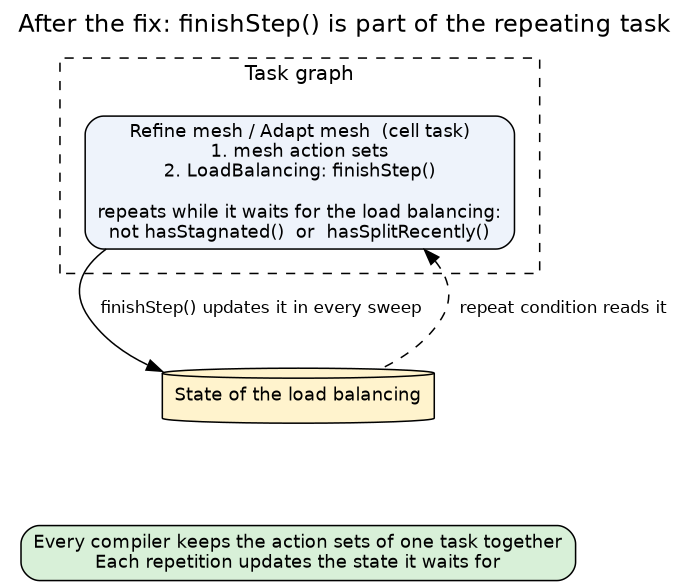
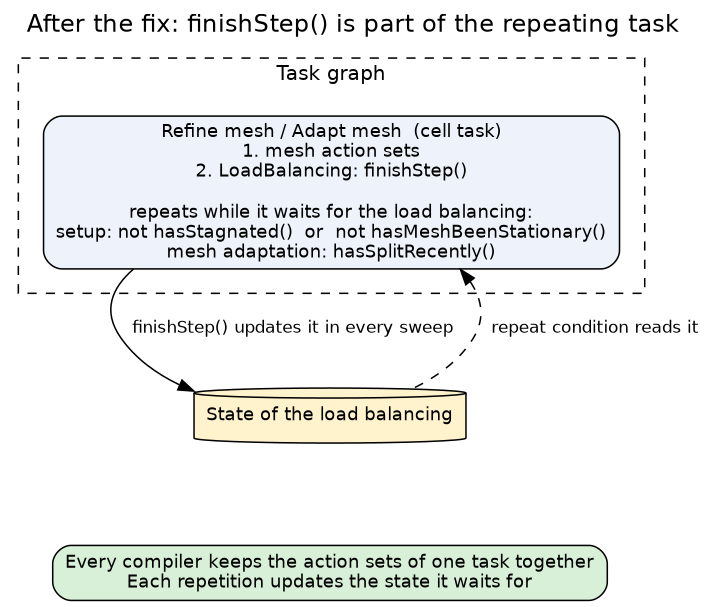
Setup: terminate the mesh construction only once the mesh has been stationary
The setup pauses its refinement while the load balancing has split recently, and
a paused refinement leaves the grid stationary. Each sweep decides at its start
whether it refines, and the repetition is checked after finishStep(). When
hasSplitRecently() ceased to hold, the grid hence was stationary because the
last sweep had not been allowed to refine, and the setup terminated. With
SpreadOut, which splits as soon as every thread can get a tree, the mesh stopped
at nine cells.

- New AbstractLoadBalancing::hasMeshBeenStationary(), which holds one state
  update after hasSplitRecently() has ceased to hold. Cascade forwards it. The
  refinement tasks of the setups over a regular grid and of LoadCheckpoint
  repeat until it holds.
- Reduce NumberOfMeshSweepsAfterSplitToMakeMeshConsistentAgain from 3 to 2, and
  document which sweeps it counts. This affects all users of hasSplitRecently().
- Update the labels of the graphs which document the repeating tasks.

Tested with all task graph compilers and both SpreadOut strategies: the point
source (regular grid) and the entropy wave (rk4fd4), without MPI.
LoadCheckpoint and Cascade have not been run.

diff --git a/src/toolbox/loadbalancing/AbstractLoadBalancing.h b/src/toolbox/loadbalancing/AbstractLoadBalancing.h
@@ -36,15 +36,21 @@ public:
   /**
    * Number of mesh sweeps a split needs until the mesh is consistent again
    *
-   * We need three sweeps to perform a proper split:
+   * A split needs three sweeps after the one at whose end the strategy has
+   * triggered it:
    *
-   * 1. Trigger the split,
-   * 2. split the mesh actually,
-   * 3. update all the stats.
+   * 1. The new trees are created. The statistics register the split at the end
+   *    of this sweep, i.e. they set the number of state updates without any
+   *    split to zero.
+   * 2. The new trees receive their cells.
+   * 3. The old tree hands over these cells, so the cell counts are consistent.
+   *
+   * The constant counts the state updates after the one which has registered
+   * the split, i.e. it stands for the sweeps two and three.
    *
    * @see hasSplitRecently()
    */
-  static constexpr int NumberOfMeshSweepsAfterSplitToMakeMeshConsistentAgain = 3;
+  static constexpr int NumberOfMeshSweepsAfterSplitToMakeMeshConsistentAgain = 2;
 
   /**
    * Constructor
@@ -124,6 +130,29 @@ public:
    * before the split has been carried out.
    */
   virtual bool hasSplitRecently() const;
+
+
+  /**
+   * Has the mesh been stationary with respect to splits
+   *
+   * Holds one state update after hasSplitRecently() has ceased to hold, and as
+   * long as this rank has not triggered a new split. It does not tell whether
+   * the grid itself is stationary (@ref peano4::grid::isGridStationary()).
+   *
+   * ## Why a mesh construction cannot use hasSplitRecently() to terminate
+   *
+   * A mesh construction pauses its refinement while hasSplitRecently() holds,
+   * as the new trees have to catch up first. A paused refinement leaves the
+   * grid stationary. Each sweep decides at its start whether it refines, while
+   * the repetition is checked after finishStep(), i.e. at its end. When
+   * hasSplitRecently() ceases to hold, the grid hence is stationary because
+   * the last sweep has not been allowed to refine. If the construction
+   * terminates now, it never resumes the refinement. With the strategy
+   * SpreadOut, which splits as soon as every thread can get a tree, the mesh
+   * stopped at nine cells. A construction therefore has to run until
+   * hasMeshBeenStationary() holds, which grants it one sweep with refinement.
+   */
+  virtual bool hasMeshBeenStationary() const;
 
 
   /**

diff --git a/src/exahype2/api/fv/SetupSimulationOverRegularGrid.py b/src/exahype2/api/fv/SetupSimulationOverRegularGrid.py
@@ -37,7 +37,10 @@ class SetupSimulationOverRegularGrid(Solver.GridConstruction):
     ## Why the refinement task informs the load balancing itself
 
     The task Refine mesh repeats until the load balancing has stagnated and
-    has not split recently. Only finishStep() updates both, i.e. the action
+    reports that the mesh has been stationary
+    (@ref toolbox::loadbalancing::AbstractLoadBalancing::hasMeshBeenStationary()
+    explains why it must not terminate as soon as the load balancing has not
+    split recently anymore). Only finishStep() updates both, i.e. the action
     set toolbox.loadbalancing.api.actionsets.LoadBalancing which calls it has
     to be part of this very task. It used to sit in a task of its own which
     depended on the refinement. The setup then terminated only if the task
@@ -137,7 +140,7 @@ class SetupSimulationOverRegularGrid(Solver.GridConstruction):
                                                                     "not peano4::grid::isGridStationary( peano4::parallel::SpacetreeSet::getInstance().getGridStatistics() )"
                                                                     " or ( ::toolbox::loadbalancing::LoadBalancingService::getInstance().hasLoadBalancing()"
                                                                     " and ( not ::toolbox::loadbalancing::LoadBalancingService::getInstance().getLoadBalancing()->hasStagnated()"
-                                                                    " or ::toolbox::loadbalancing::LoadBalancingService::getInstance().getLoadBalancing()->hasSplitRecently() ) )"
+                                                                    " or not ::toolbox::loadbalancing::LoadBalancingService::getInstance().getLoadBalancing()->hasMeshBeenStationary() ) )"
                                                                 )
                                                                 )
         consolidate_load_balancing_task       = peano4.api.taskgraph.Task(name=f"{self._solver.name}_Consolidate mesh",

diff --git a/src/exahype2/api/rkfd4/SetupSimulationOverRegularGrid.py b/src/exahype2/api/rkfd4/SetupSimulationOverRegularGrid.py
@@ -43,7 +43,10 @@ class SetupSimulationOverRegularGrid(Solver.GridConstruction):
     ## Why the refinement task informs the load balancing itself
 
     The task Refine mesh repeats until the load balancing has stagnated and
-    has not split recently. Only finishStep() updates both, i.e. the action
+    reports that the mesh has been stationary
+    (@ref toolbox::loadbalancing::AbstractLoadBalancing::hasMeshBeenStationary()
+    explains why it must not terminate as soon as the load balancing has not
+    split recently anymore). Only finishStep() updates both, i.e. the action
     set toolbox.loadbalancing.api.actionsets.LoadBalancing which calls it has
     to be part of this very task. It used to sit in a task of its own which
     depended on the refinement. The setup then terminated only if the task
@@ -112,7 +115,7 @@ class SetupSimulationOverRegularGrid(Solver.GridConstruction):
                 "not peano4::grid::isGridStationary( peano4::parallel::SpacetreeSet::getInstance().getGridStatistics() )"
                 " or ( ::toolbox::loadbalancing::LoadBalancingService::getInstance().hasLoadBalancing()"
                 " and ( not ::toolbox::loadbalancing::LoadBalancingService::getInstance().getLoadBalancing()->hasStagnated()"
-                " or ::toolbox::loadbalancing::LoadBalancingService::getInstance().getLoadBalancing()->hasSplitRecently() ) )"
+                " or not ::toolbox::loadbalancing::LoadBalancingService::getInstance().getLoadBalancing()->hasMeshBeenStationary() ) )"
             ),
         )
         consolidate_load_balancing_task = peano4.api.taskgraph.Task(

diff --git a/src/exahype2/api/blockstructured/LoadCheckpoint.py b/src/exahype2/api/blockstructured/LoadCheckpoint.py
@@ -238,7 +238,9 @@ class LoadCheckpoint(Solver.GridConstruction):
     ## Why the refinement task informs the load balancing itself
 
     The refinement sweep repeats until the load balancing has stagnated and
-    has not split recently. Only finishStep() updates both, i.e. the action
+    reports that the mesh has been stationary
+    (@ref toolbox::loadbalancing::AbstractLoadBalancing::hasMeshBeenStationary()).
+    Only finishStep() updates both, i.e. the action
     set toolbox.loadbalancing.api.actionsets.LoadBalancing which calls it has
     to be part of this very task. In a task of its own, the setup terminates
     only if the task graph compiler happens to fuse both tasks. We have
@@ -347,7 +349,7 @@ class LoadCheckpoint(Solver.GridConstruction):
                 "not peano4::grid::isGridStationary( peano4::parallel::SpacetreeSet::getInstance().getGridStatistics() )"
                 " or ( ::toolbox::loadbalancing::LoadBalancingService::getInstance().hasLoadBalancing()"
                 " and ( not ::toolbox::loadbalancing::LoadBalancingService::getInstance().getLoadBalancing()->hasStagnated()"
-                " or ::toolbox::loadbalancing::LoadBalancingService::getInstance().getLoadBalancing()->hasSplitRecently() ) )"
+                " or not ::toolbox::loadbalancing::LoadBalancingService::getInstance().getLoadBalancing()->hasMeshBeenStationary() ) )"
             ),
         )
         refine_task.add_action_set(_RefineFromCheckpoint(reader, includes))

diff --git a/tests/unit/test_setup_load_balancing.py b/tests/unit/test_setup_load_balancing.py
@@ -56,3 +56,25 @@ def test_task_waiting_for_the_load_balancing_informs_it(tmp_path, scheme):
             isinstance(action_set, toolbox.loadbalancing.api.actionsets.LoadBalancing)
             for action_set in task.action_sets
         ), task.name
+
+
+@pytest.mark.parametrize("scheme", ["fv", "rkfd4"])
+def test_refinement_terminates_only_after_a_sweep_which_may_refine(scheme, tmp_path):
+    """!
+
+    The refinement pauses while the load balancing has split recently, and a
+    paused refinement leaves the grid stationary. The repetition hence has to
+    wait for hasMeshBeenStationary(), which holds one sweep after the pause.
+
+    """
+    graph = _setup_graph(scheme, tmp_path)
+    [refine] = [
+        task
+        for task in graph.tasks
+        if task.has_to_repeat and "hasStagnated()" in task.has_to_repeat
+    ]
+    assert "not ::toolbox" in refine.has_to_repeat
+    assert "hasMeshBeenStationary()" in refine.has_to_repeat
+    assert "hasSplitRecently()" not in refine.has_to_repeat
+    guard = refine.action_sets[0].guard
+    assert "hasSplitRecently()" in guard

diff --git a/src/toolbox/loadbalancing/strategies/cascade/Cascade.h b/src/toolbox/loadbalancing/strategies/cascade/Cascade.h
@@ -81,6 +81,20 @@ class toolbox::loadbalancing::strategies::cascade::Cascade: public toolbox::load
     }
 
 
+    virtual bool hasMeshBeenStationary() const override {
+      switch (_activeLoadBalancing) {
+        case 0:
+          return _hostedLoadBalancing0.hasMeshBeenStationary();
+        case 1:
+          return _hostedLoadBalancing1.hasMeshBeenStationary();
+        default:
+          assertion1(false,_activeLoadBalancing);
+          break;
+      }
+      return false;
+    }
+
+
     virtual bool hasSplitRecently() const override {
       switch (_activeLoadBalancing) {
         case 0:

diff --git a/src/toolbox/loadbalancing/AbstractLoadBalancing.cpp b/src/toolbox/loadbalancing/AbstractLoadBalancing.cpp
@@ -61,6 +61,11 @@ bool toolbox::loadbalancing::AbstractLoadBalancing::hasSplitRecently() const {
 }
 
 
+bool toolbox::loadbalancing::AbstractLoadBalancing::hasMeshBeenStationary() const {
+  return _statistics.getNumberOfStateUpdatesWithoutAnySplit() >= NumberOfMeshSweepsAfterSplitToMakeMeshConsistentAgain + 1 and _statistics.getLocalNumberOfSplits() == 0;
+}
+
+
 void toolbox::loadbalancing::AbstractLoadBalancing::enable(bool value) {
   if (value and _state == State::SwitchedOff) {
     _state = State::InterRankBalancing;
